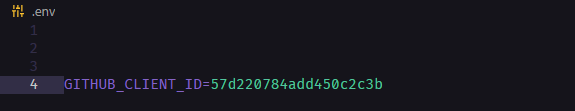
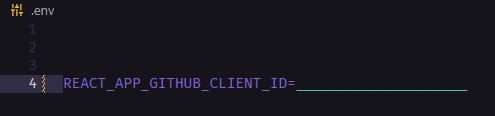
adiciona nova imagem para readme

diff --git a/src/context/auth.tsx b/src/context/auth.tsx
@@ -33,7 +33,7 @@ type AuthResponse = {
 export function AuthProvider(props: AuthProvider){
     const [user, setUser] = useState<User | null>(null)
 
-    const signInUrl = `https://github.com/login/oauth/authorize?scope=user&client_id=${process.env.GITHUB_CLIENT_ID}`
+    const signInUrl = `https://github.com/login/oauth/authorize?scope=user&client_id=${process.env.REACT_APP_GITHUB_CLIENT_ID}`
 
     async function signIn(githubCode: string) {
         const response = await api.post<AuthResponse>('authenticate', {
